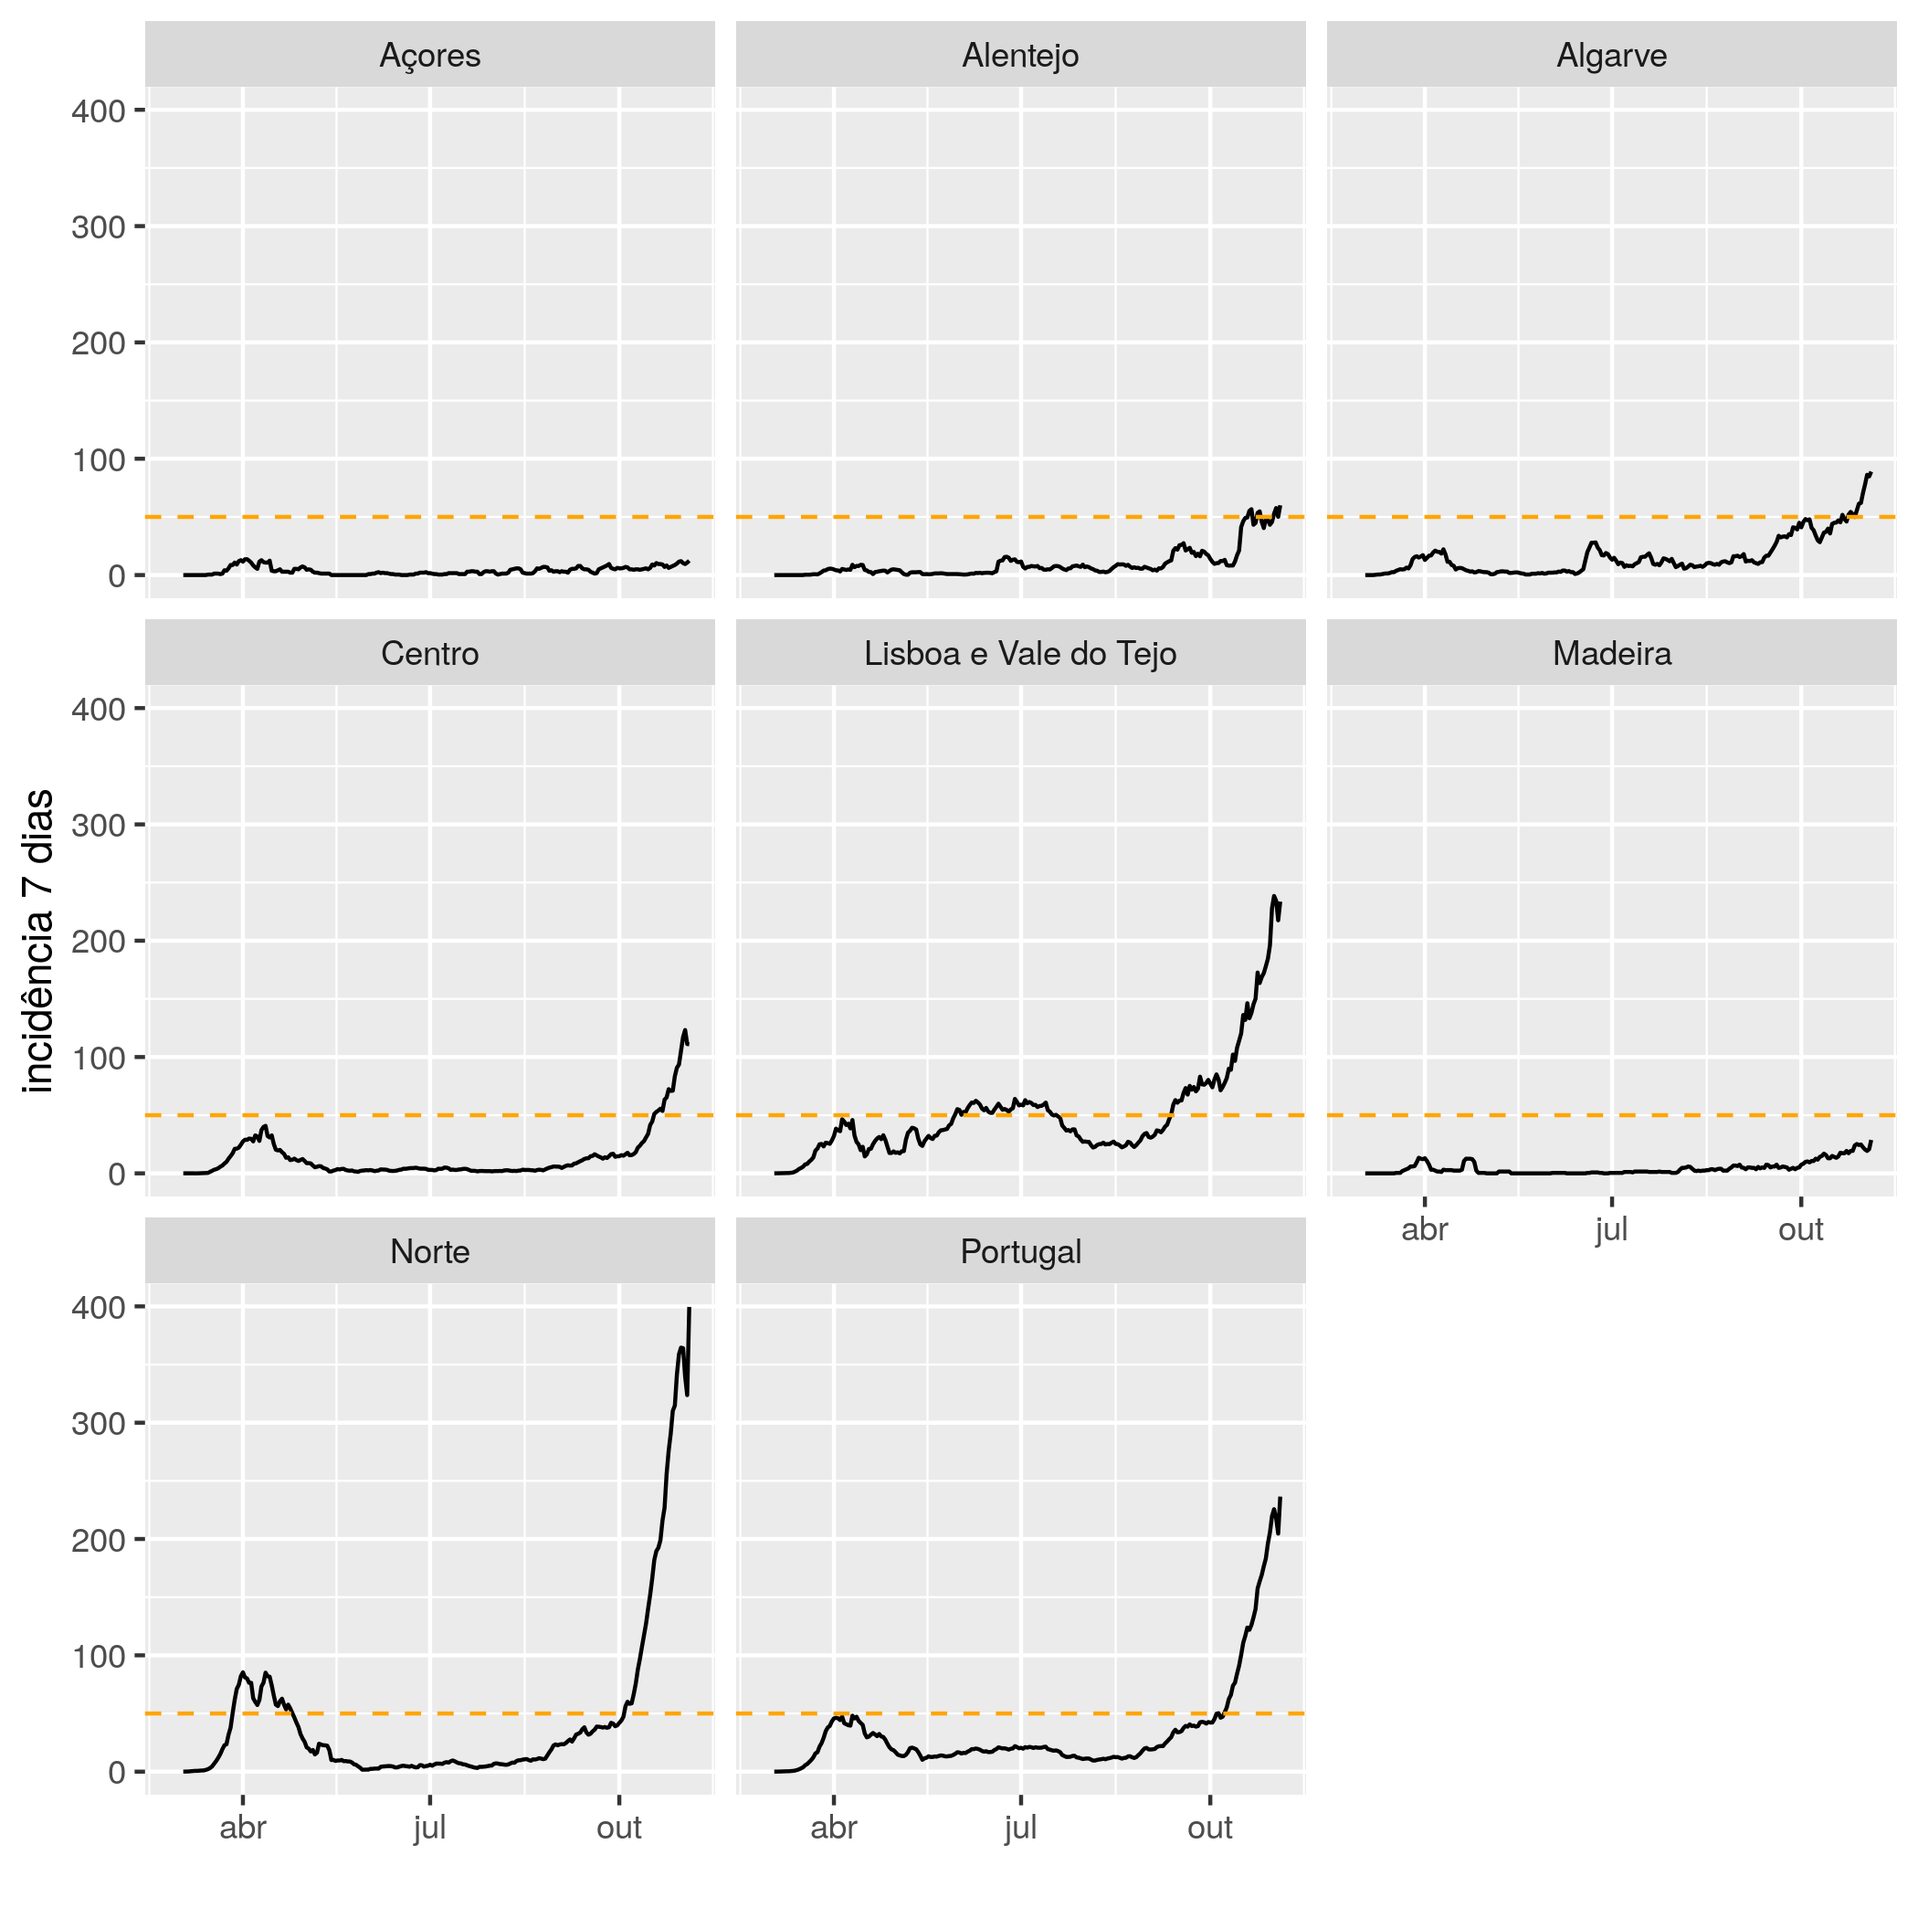
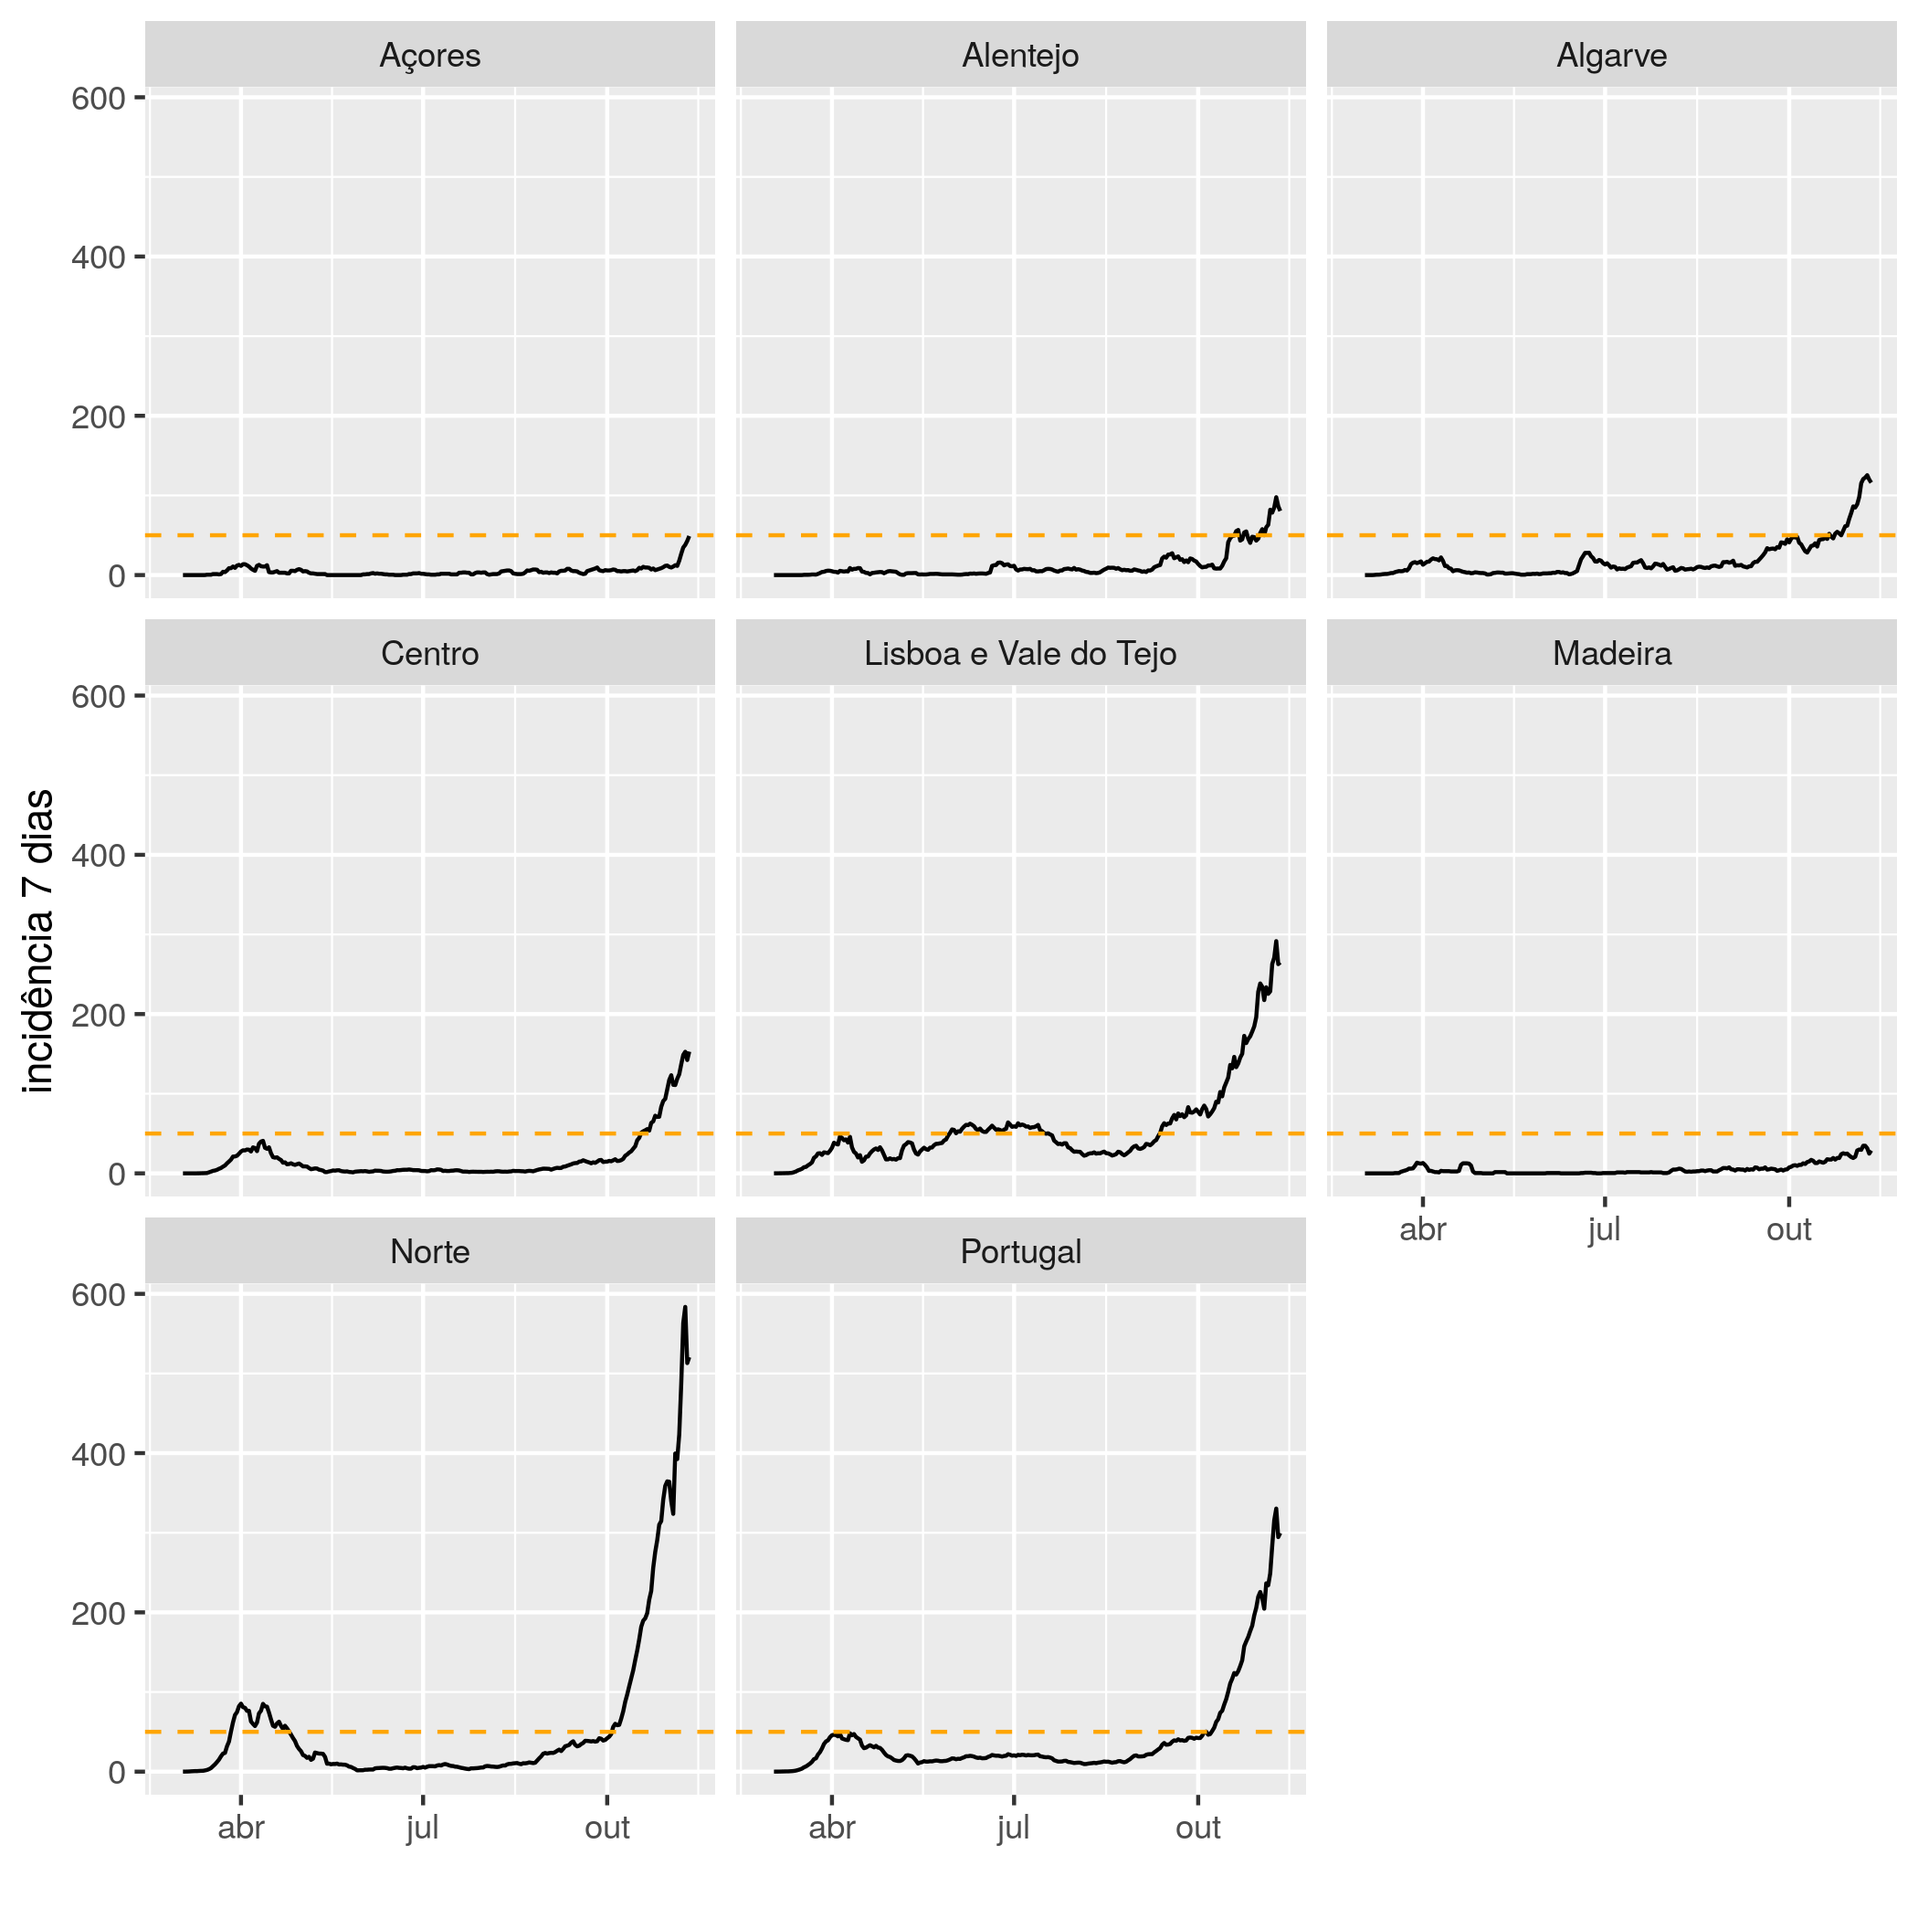
dados desta semana

diff --git a/README.md b/README.md
@@ -1,7 +1,7 @@
 # Contexto
 A incidência por 100000 habitantes em 7 dias é o valor de referência para decretar regiões de risco pelas autoridades de saúde alemãs (valor charneira é 50, ie LVT, Norte e Centro já são regiões de risco). Gráficos atualizados diariamente. Para ajudar quem quer viajar para a Alemanha ou vir passar férias a Portugal.
 
-Dados mais recentes de 2020-11-04.
+Dados mais recentes de 2020-11-11.
 
 # Incidência por 100000 habitantes em 7 dias
 ## Últimos 30 dias
